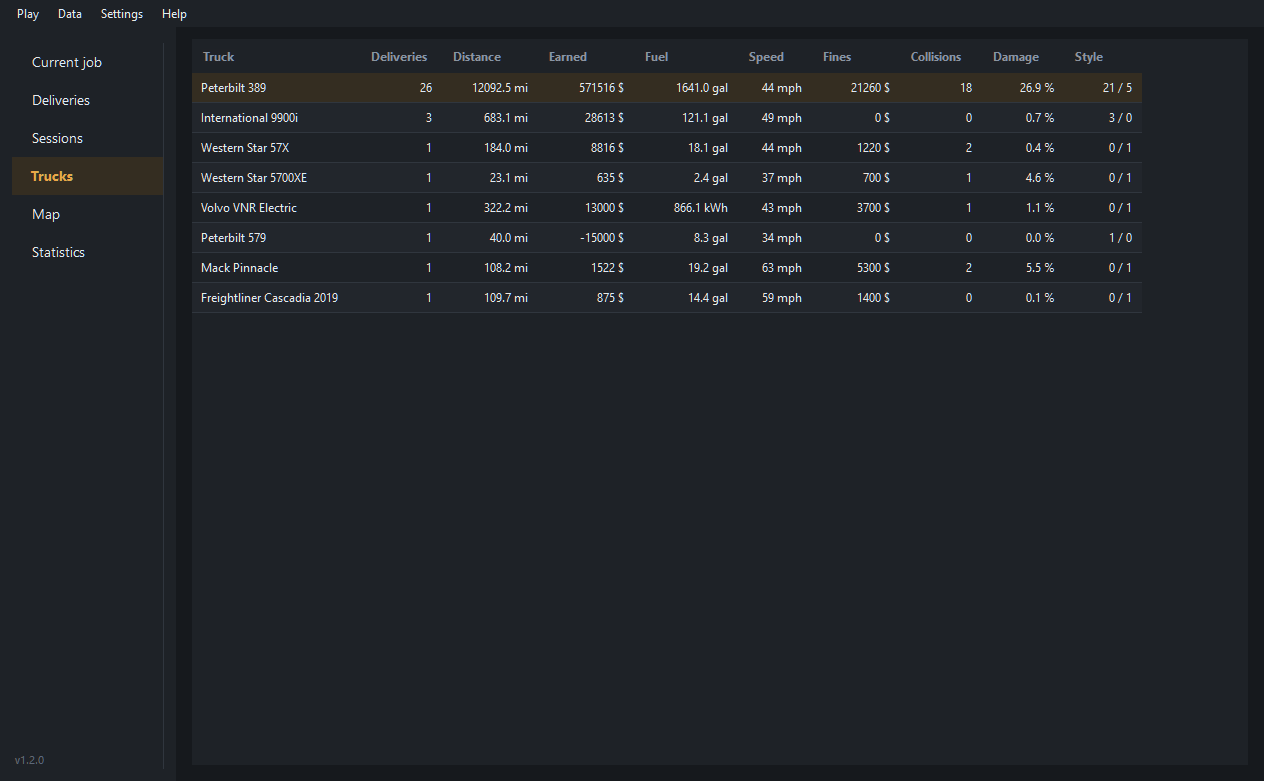
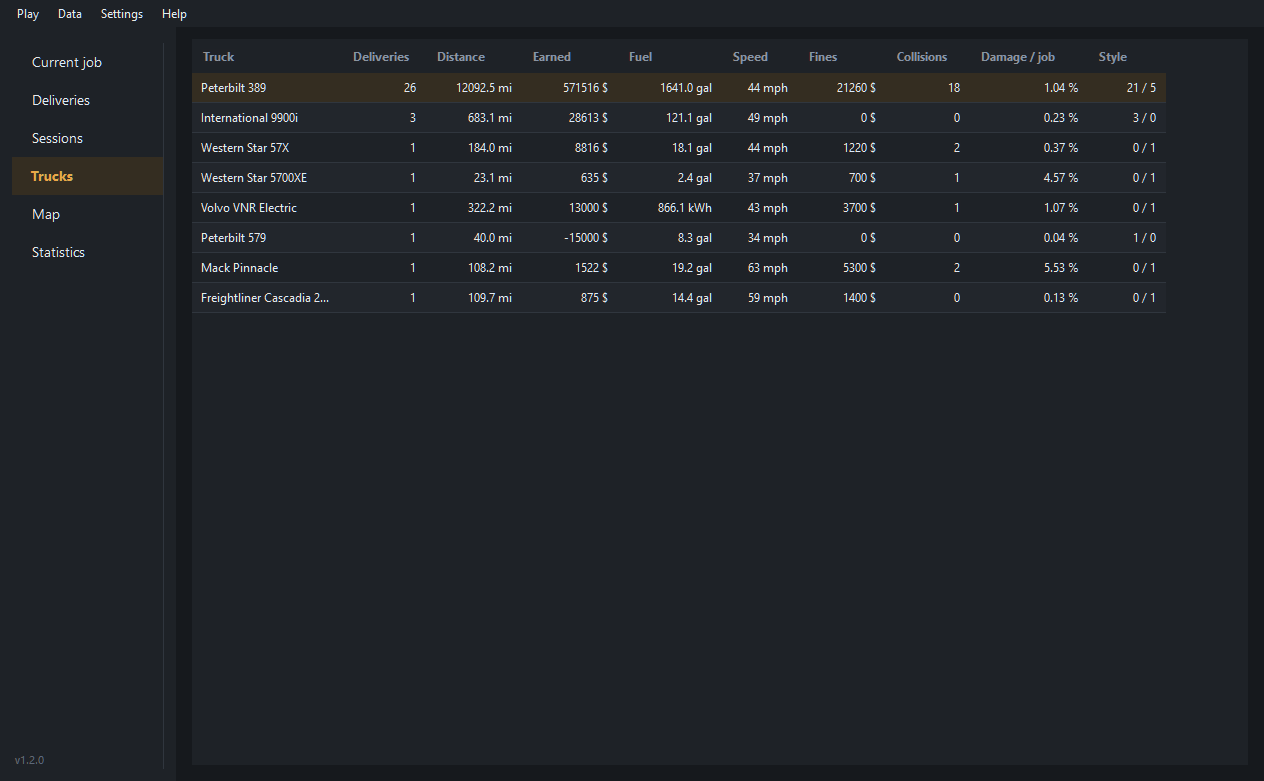
Judge a truck by what a run costs it, and drop a column nobody could read
Damage on the trucks page was a total, so it grew with how much a truck had
been driven: the Peterbilt showed 26.9 % against 0.4 % for a truck that had
pulled one load, which compares the history rather than the trucks. Per
delivery it says what a run costs that tractor, 1.04 % against 0.37 %, and that
is a fact about the truck.

The restarts column on the sittings page goes. It was asked about twice and
explained twice, which is a column failing at the only thing a column does, and
what it counted was never worth a column of its own.

The heading of the damage column is as wide as its own words in every language
that has them, since "Damage / job" and "Poškodenie / zák." both wrapped onto a
second line at the width the figure alone needed.

diff --git a/src/Waybill/MainForm.cs b/src/Waybill/MainForm.cs
@@ -305,9 +305,9 @@ public partial class MainForm : Form {
             t.Priemer = t.SpeedKmh > 0 ? u.FormatSpeed(t.SpeedKmh) : "";
             t.Pokuty = u.FormatMoney(t.PokutyRaw);
             t.PokutyRaw = u.Money(t.PokutyRaw);
-            // Added up across the deliveries, which is what the truck has taken in its
-            // life rather than what it took on the worst day of it.
-            t.Poskodenie = $"{t.DamageShare * 100:0.0} %";
+            // Per delivery, not in total: what the truck takes on a run, rather than
+            // what has happened to it since it was bought.
+            t.Poskodenie = $"{t.DamagePerJob * 100:0.00} %";
             t.Styl = $"{t.Zasielky - t.Ostro} / {t.Ostro}";
         }
 
@@ -318,7 +318,7 @@ public partial class MainForm : Form {
                 [nameof(TruckRow.Palivo)] = nameof(TruckRow.PalivoRaw),
                 [nameof(TruckRow.Priemer)] = nameof(TruckRow.SpeedKmh),
                 [nameof(TruckRow.Pokuty)] = nameof(TruckRow.PokutyRaw),
-                [nameof(TruckRow.Poskodenie)] = nameof(TruckRow.DamageShare),
+                [nameof(TruckRow.Poskodenie)] = nameof(TruckRow.DamagePerJob),
             });
         UseDarkScrollbars(_truckGrid);
     }
@@ -333,7 +333,7 @@ public partial class MainForm : Form {
             [nameof(TruckRow.Priemer)] = Strings.T("sess.speed"),
             [nameof(TruckRow.Pokuty)] = Strings.T("col.fines"),
             [nameof(TruckRow.Kolizie)] = Strings.T("col.collisions"),
-            [nameof(TruckRow.Poskodenie)] = Strings.T("detail.damage"),
+            [nameof(TruckRow.Poskodenie)] = Strings.T("truck.damagePerJob"),
             [nameof(TruckRow.Styl)] = Strings.T("col.style"),
         };
         foreach (DataGridViewColumn col in _truckGrid.Columns) {
@@ -346,7 +346,10 @@ public partial class MainForm : Form {
             nameof(TruckRow.Pokuty), nameof(TruckRow.Kolizie), nameof(TruckRow.Poskodenie),
             nameof(TruckRow.Styl),
         };
-        var widths = new[] { 168, 82, 96, 96, 104, 74, 88, 82, 82, 78 };
+        // The damage column is wide enough for its own heading in every language it
+        // has one in: "Damage / job" and "Poškodenie / zák." both wrapped onto a
+        // second line at the width the figure alone would have needed.
+        var widths = new[] { 150, 84, 96, 96, 104, 76, 88, 84, 118, 78 };
         for (var i = 0; i < order.Length; i++) {
             if (_truckGrid.Columns[order[i]] is not { } col) continue;
             col.DisplayIndex = i;
@@ -355,7 +358,7 @@ public partial class MainForm : Form {
         }
         foreach (var hidden in new[] {
             nameof(TruckRow.DistanceKm), nameof(TruckRow.Zarobok), nameof(TruckRow.PalivoRaw),
-            nameof(TruckRow.SpeedKmh), nameof(TruckRow.PokutyRaw), nameof(TruckRow.DamageShare),
+            nameof(TruckRow.SpeedKmh), nameof(TruckRow.PokutyRaw), nameof(TruckRow.DamagePerJob),
             nameof(TruckRow.Elektricky), nameof(TruckRow.Hra), nameof(TruckRow.Ostro),
         }) {
             if (_truckGrid.Columns[hidden] is { } col) col.Visible = false;
@@ -465,7 +468,6 @@ public partial class MainForm : Form {
             [nameof(SessionRow.Odmena)] = Strings.T("sess.earned"),
             [nameof(SessionRow.Priemer)] = Strings.T("sess.speed"),
             [nameof(SessionRow.Oddych)] = Strings.T("sess.rest"),
-            [nameof(SessionRow.Restarty)] = Strings.T("sess.restarts"),
         };
         foreach (DataGridViewColumn col in _sessionGrid.Columns) {
             if (captions.TryGetValue(col.DataPropertyName, out var caption)) col.HeaderText = caption;
@@ -479,12 +481,12 @@ public partial class MainForm : Form {
         var order = new[] {
             nameof(SessionRow.Od), nameof(SessionRow.Trvanie), nameof(SessionRow.Zasielky),
             nameof(SessionRow.Vzdialenost), nameof(SessionRow.Odmena), nameof(SessionRow.Priemer),
-            nameof(SessionRow.Oddych), nameof(SessionRow.Restarty),
+            nameof(SessionRow.Oddych),
         };
         // Wide enough for the longest thing each holds, not for its heading: rest
         // reads "10 h 05 min" on a sitting with two sleeps in it, and cut to "10 h 0"
         // it says nothing at all.
-        var widths = new[] { 112, 80, 82, 92, 92, 74, 84, 84 };
+        var widths = new[] { 124, 92, 92, 104, 104, 84, 92 };
         for (var i = 0; i < order.Length; i++) {
             if (_sessionGrid.Columns[order[i]] is not { } col) continue;
             col.DisplayIndex = i;
@@ -492,7 +494,7 @@ public partial class MainForm : Form {
         }
         foreach (var numeric in new[] {
             nameof(SessionRow.Zasielky), nameof(SessionRow.Vzdialenost),
-            nameof(SessionRow.Odmena), nameof(SessionRow.Priemer), nameof(SessionRow.Restarty),
+            nameof(SessionRow.Odmena), nameof(SessionRow.Priemer),
         }) {
             if (_sessionGrid.Columns[numeric] is { } c) c.DefaultCellStyle.Alignment = DataGridViewContentAlignment.MiddleRight;
         }
@@ -504,13 +506,6 @@ public partial class MainForm : Form {
         }) {
             if (_sessionGrid.Columns[hidden] is { } col) col.Visible = false;
         }
-        // The one column here that cannot be read off its own heading, so it says
-        // what it means on hover rather than leaving anybody to work it out.
-        if (_sessionGrid.Columns[nameof(SessionRow.Restarty)] is { } restarts) {
-            restarts.ToolTipText = Strings.T("sess.restartsWhy");
-            restarts.HeaderCell.ToolTipText = Strings.T("sess.restartsWhy");
-        }
-
         if (_sessionGrid.Rows.Count > 0 && _sessionGrid.SelectedRows.Count == 0) {
             _sessionGrid.Rows[0].Selected = true;
         }

diff --git a/src/Waybill/Storage/DeliveryStore.cs b/src/Waybill/Storage/DeliveryStore.cs
@@ -916,7 +916,7 @@ public class DeliveryStore : IDisposable {
                        COALESCE(SUM(CASE WHEN driving_game_min > 0 THEN actual_distance_km ELSE 0 END), 0),
                        COALESCE(SUM(fines_total), 0),
                        COALESCE(SUM(collisions), 0),
-                       COALESCE(SUM(truck_damage_pct), 0),
+                       COALESCE(AVG(truck_damage_pct), 0),
                        COALESCE(MAX(electric), 0),
                        COALESCE(MAX(game), ''),
                        SUM(CASE WHEN driving_style = 'spirited' THEN 1 ELSE 0 END)
@@ -938,7 +938,7 @@ public class DeliveryStore : IDisposable {
                     SpeedKmh = gameMinutes > 0.6 ? timed / (gameMinutes / 60.0) : 0,
                     PokutyRaw = reader.GetDouble(7),
                     Kolizie = reader.GetInt32(8),
-                    DamageShare = reader.GetDouble(9),
+                    DamagePerJob = reader.GetDouble(9),
                     Elektricky = reader.GetInt32(10) != 0,
                     Hra = reader.GetString(11),
                     Ostro = reader.GetInt32(12),
@@ -1024,14 +1024,13 @@ public class DeliveryStore : IDisposable {
     /// delivery that spans three sittings puts its kilometres where they happened
     /// rather than all in the first.
     /// </summary>
-    public SessionRow SessionTotals(long fromMs, long toMs, int runs) {
+    public SessionRow SessionTotals(long fromMs, long toMs) {
         lock (_gate) {
             var row = new SessionRow {
                 Od = DateTimeOffset.FromUnixTimeMilliseconds(fromMs).LocalDateTime,
                 Do = DateTimeOffset.FromUnixTimeMilliseconds(toMs).LocalDateTime,
                 FromMs = fromMs,
                 ToMs = toMs,
-                Restarty = Math.Max(0, runs - 1),
             };
 
             // Finished here: the count and the pay.

diff --git a/src/Waybill/Storage/UiRows.cs b/src/Waybill/Storage/UiRows.cs
@@ -21,8 +21,10 @@ public class TruckRow {
     public double PokutyRaw { get; set; }
     public string Pokuty { get; set; } = "";
     public int Kolizie { get; set; }
-    /// <summary>Damage the tractor took across every delivery it pulled, as a share.</summary>
-    public double DamageShare { get; set; }
+    /// <summary>Damage the tractor took on an average delivery, as a share. Averaged
+    /// rather than totalled: a total grows with how much a truck was driven, so it
+    /// compares the driver's history rather than the trucks.</summary>
+    public double DamagePerJob { get; set; }
     public string Poskodenie { get; set; } = "";
     public string Styl { get; set; } = "";
     public int Ostro { get; set; }
@@ -37,16 +39,6 @@ public class SessionRow {
     public DateTime Do { get; set; }
     public long FromMs { get; set; }
     public long ToMs { get; set; }
-    /// <summary>
-    /// How many times the driving stopped and started again inside this sitting.
-    ///
-    /// Counted as breaks rather than as the stretches between them, because that is
-    /// the number a person has in their head: nought means you sat down and drove,
-    /// three means something interrupted you three times. Whether it was the game
-    /// that was restarted or Waybill makes no difference to the driver and none to
-    /// this figure.
-    /// </summary>
-    public int Restarty { get; set; }
     public string Trvanie { get; set; } = "";
     public int Zasielky { get; set; }
     public double DistanceKm { get; set; }

diff --git a/src/Waybill/Tracking/Sessions.cs b/src/Waybill/Tracking/Sessions.cs
@@ -122,17 +122,16 @@ public static class Sessions {
         if (stretches.Count == 0) return new List<SessionRow>();
 
         var gap = gapMinutes * 60_000L;
-        var windows = new List<(long From, long To, int Runs)>();
+        var windows = new List<(long From, long To)>();
         foreach (var f in stretches.Where(f => f.Ticks >= LeastTicks).OrderBy(f => f.First)) {
             if (windows.Count > 0 && f.First - windows[^1].To <= gap) {
-                var last = windows[^1];
-                windows[^1] = (last.From, Math.Max(last.To, f.Last), last.Runs + 1);
+                windows[^1] = (windows[^1].From, Math.Max(windows[^1].To, f.Last));
             } else {
-                windows.Add((f.First, f.Last, 1));
+                windows.Add((f.First, f.Last));
             }
         }
 
-        var rows = windows.Select(w => store.SessionTotals(w.From, w.To, w.Runs)).ToList();
+        var rows = windows.Select(w => store.SessionTotals(w.From, w.To)).ToList();
         rows.Reverse();
         return rows;
     }

diff --git a/src/Waybill/Strings.Slovak.cs b/src/Waybill/Strings.Slovak.cs
@@ -261,14 +261,13 @@ public static partial class Strings {
         ["tab.sessions"] = "Sedenia",
         ["tab.trucks"] = "Kamióny",
         ["truck.fuel"] = "Palivo",
+        ["truck.damagePerJob"] = "Poškodenie / zák.",
         ["sess.began"] = "Začiatok",
         ["sess.lasted"] = "Trvanie",
         ["sess.deliveries"] = "Zákazky",
         ["sess.earned"] = "Zárobok",
         ["sess.speed"] = "Rýchlosť",
         ["sess.rest"] = "Oddych",
-        ["sess.restarts"] = "Reštarty",
-        ["sess.restartsWhy"] = "Koľkokrát sa jazda počas tohto sedenia zastavila a znova rozbehla, teda koľkokrát si reštartoval hru alebo Waybill. Nula znamená, že to bežalo bez prerušenia.",
         ["sess.inThisOne"] = "Odjazdené v tomto sedení",
         ["sess.nothing"] = "V tomto sedení nebola doručená žiadna zákazka.",
         ["detail.legs"] = "S nákladom + k nákladu",

diff --git a/src/Waybill/Strings.Czech.cs b/src/Waybill/Strings.Czech.cs
@@ -255,14 +255,13 @@ public static partial class Strings {
         ["tab.sessions"] = "Sezení",
         ["tab.trucks"] = "Kamiony",
         ["truck.fuel"] = "Palivo",
+        ["truck.damagePerJob"] = "Poškození / zak.",
         ["sess.began"] = "Začátek",
         ["sess.lasted"] = "Trvání",
         ["sess.deliveries"] = "Zakázky",
         ["sess.earned"] = "Výdělek",
         ["sess.speed"] = "Rychlost",
         ["sess.rest"] = "Odpočinek",
-        ["sess.restarts"] = "Restarty",
-        ["sess.restartsWhy"] = "Kolikrát se jízda během tohoto sezení zastavila a znovu rozjela, tedy kolikrát jsi restartoval hru nebo Waybill. Nula znamená, že to běželo bez přerušení.",
         ["sess.inThisOne"] = "Odjeto v tomto sezení",
         ["sess.nothing"] = "V tomto sezení nebyla doručena žádná zakázka.",
         ["detail.legs"] = "S nákladem + pro náklad",

diff --git a/src/Waybill/Strings.German.cs b/src/Waybill/Strings.German.cs
@@ -255,14 +255,13 @@ public static partial class Strings {
         ["tab.sessions"] = "Sitzungen",
         ["tab.trucks"] = "Fahrzeuge",
         ["truck.fuel"] = "Kraftstoff",
+        ["truck.damagePerJob"] = "Schaden / Auftrag",
         ["sess.began"] = "Beginn",
         ["sess.lasted"] = "Dauer",
         ["sess.deliveries"] = "Lieferungen",
         ["sess.earned"] = "Verdient",
         ["sess.speed"] = "Tempo",
         ["sess.rest"] = "Pause",
-        ["sess.restarts"] = "Neustarts",
-        ["sess.restartsWhy"] = "Wie oft die Fahrt in dieser Sitzung angehalten und wieder angefangen hat, weil das Spiel oder Waybill neu gestartet wurde. Null heißt: ohne Unterbrechung durchgelaufen.",
         ["sess.inThisOne"] = "In dieser Sitzung gefahren",
         ["sess.nothing"] = "In dieser Sitzung wurde nichts ausgeliefert.",
         ["detail.legs"] = "Mit Ladung + zur Ladung",

diff --git a/src/Waybill/Strings.Spanish.cs b/src/Waybill/Strings.Spanish.cs
@@ -255,14 +255,13 @@ public static partial class Strings {
         ["tab.sessions"] = "Sesiones",
         ["tab.trucks"] = "Camiones",
         ["truck.fuel"] = "Combustible",
+        ["truck.damagePerJob"] = "Daño / entrega",
         ["sess.began"] = "Inicio",
         ["sess.lasted"] = "Duración",
         ["sess.deliveries"] = "Entregas",
         ["sess.earned"] = "Ganado",
         ["sess.speed"] = "Velocidad",
         ["sess.rest"] = "Descanso",
-        ["sess.restarts"] = "Reinicios",
-        ["sess.restartsWhy"] = "Cuántas veces se detuvo y volvió a empezar la conducción en esta sesión, por reiniciar el juego o Waybill. Cero significa que fue de un tirón.",
         ["sess.inThisOne"] = "Conducido en esta sesión",
         ["sess.nothing"] = "En esta sesión no se entregó nada.",
         ["detail.legs"] = "Con carga + hasta la carga",

diff --git a/src/Waybill/Strings.English.cs b/src/Waybill/Strings.English.cs
@@ -254,14 +254,13 @@ public static partial class Strings {
         ["tab.sessions"] = "Sessions",
         ["tab.trucks"] = "Trucks",
         ["truck.fuel"] = "Fuel",
+        ["truck.damagePerJob"] = "Damage / job",
         ["sess.began"] = "Began",
         ["sess.lasted"] = "Lasted",
         ["sess.deliveries"] = "Deliveries",
         ["sess.earned"] = "Earned",
         ["sess.speed"] = "Speed",
         ["sess.rest"] = "Rest",
-        ["sess.restarts"] = "Restarts",
-        ["sess.restartsWhy"] = "How many times the driving stopped and started again inside this sitting, from the game or Waybill being restarted. Nought means it ran straight through.",
         ["sess.inThisOne"] = "Driven in this one",
         ["sess.nothing"] = "Nothing was delivered in this one.",
         ["detail.legs"] = "Loaded + to the load",

diff --git a/src/Waybill/Program.cs b/src/Waybill/Program.cs
@@ -107,8 +107,7 @@ if (args.Length >= 1 && args[0] == "--sessions") {
         var hours = (s.ToMs - s.FromMs) / 3600000.0;
         Console.WriteLine($"{s.Od:yyyy-MM-dd HH:mm} - {s.Do:HH:mm}  {hours,5:0.0} h  "
                         + $"{s.Zasielky,2} zasielok  {units.Distance(s.DistanceKm),8:0.0} {units.DistanceUnit}  "
-                        + $"{units.Money(s.Zarobok),8:0} {units.Currency}"
-                        + (s.Restarty > 0 ? $"  (restartov: {s.Restarty})" : ""));
+                        + $"{units.Money(s.Zarobok),8:0} {units.Currency}");
     }
     return;
 }
